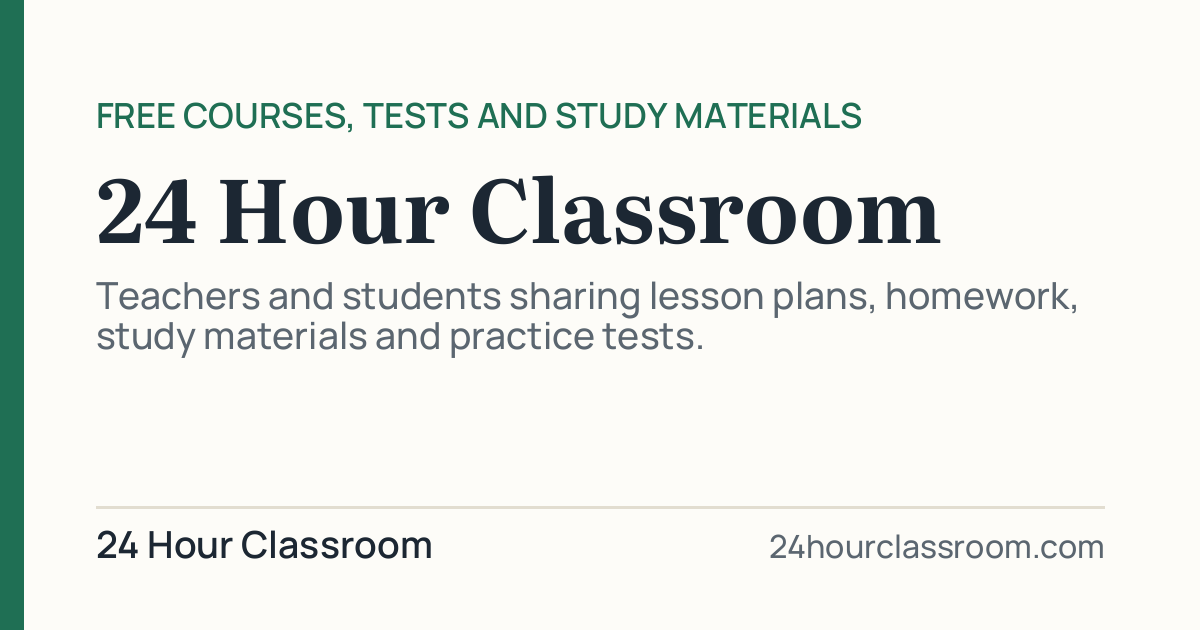
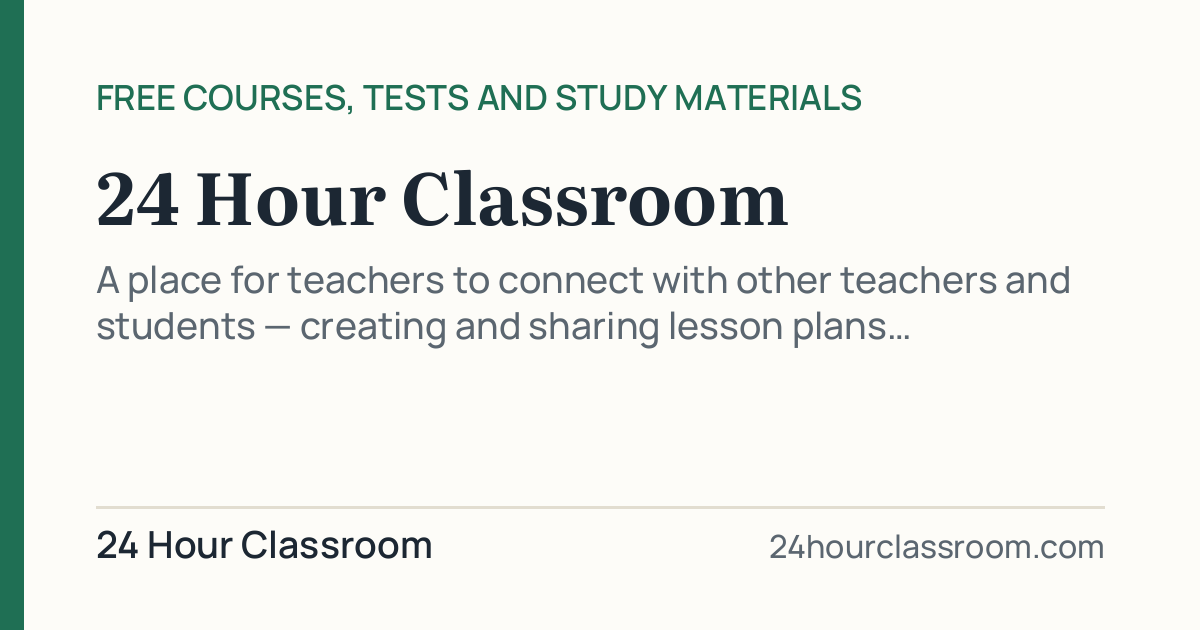
fix: share cards after review
- Text the Latin-only card fonts can't draw (CJK, Cyrillic, maths symbols)
  no longer leaves a blank card: such a title gets the site card and such
  a detail line is dropped (fonts/coverage.php, ShareCard::covers).
- Title line height accounts for GD sizes being points at 96 dpi, so lines
  no longer touch; sizes 54/48/42/38.
- One cache entry per page holding the PNG and its hash, redrawn in place,
  instead of a new database row for every version of a card.
- og:image carries v=<card hash>, so bots that cache by URL pick up an
  edit; max-age down to 10 minutes.
- Ellipsis cuts back to a word boundary.
- More fallback tests: hidden tests, materials, practice pages and
  deactivated teachers get the site card.

Claude-Session: https://claude.ai/code/session_017AxU8xPuDdR2SAk5JH72wA

Changed region(s): [[0.0617, 0.4222, 0.8942, 0.573], [0.0617, 0.2714, 0.8017, 0.3921], [0.0617, 0.1206, 0.74, 0.2111]]

diff --git a/apps/web/src/services/page-meta.ts b/apps/web/src/services/page-meta.ts
@@ -107,7 +107,11 @@ export function applyHead(): void {
   }
 }
 
-/** GET /api/page-image for $path, as PageHead::imageUrl builds it. */
+/**
+ * GET /api/page-image for this path, as PageHead::imageUrl builds it minus
+ * its `v` cache-buster (a hash only the server can compute; bots read the
+ * server's tag, which this replaces only after load).
+ */
 export function pageImageUrl(path: string): string {
   const api = (Env?.apiBaseUrl ?? 'http://localhost:8000').replace(/\/+$/, '');
   return `${api}/api/page-image?path=${encodeURIComponent(path)}`;

diff --git a/apps/api/app/Support/ShareCard.php b/apps/api/app/Support/ShareCard.php
@@ -20,6 +20,12 @@ final class ShareCard
 
     public const HEIGHT = 630;
 
+    /** Bump when the drawing changes, so cached cards and bots' copies are redrawn. */
+    public const VERSION = 2;
+
+    /** imagettftext sizes are points at 96 dpi: pixels per point. */
+    private const PX = 96 / 72;
+
     private const SURFACE = '#fdfcf8';
 
     private const INK = '#1c2733';
@@ -38,6 +44,32 @@ final class ShareCard
     public static function supported(): bool
     {
         return function_exists('imagettftext') && function_exists('imagepng');
+    }
+
+    /**
+     * Whether every character of $text has a glyph in all three fonts
+     * (resources/fonts/coverage.php). A missing glyph draws as nothing, so
+     * a caller puts no uncovered text on a card.
+     */
+    public static function covers(string $text): bool
+    {
+        static $ranges = null;
+        $ranges ??= require resource_path('fonts/coverage.php');
+        foreach (mb_str_split((string) preg_replace('/\s+/u', ' ', $text)) as $char) {
+            $cp = mb_ord($char);
+            $ok = false;
+            foreach ($ranges as [$from, $to]) {
+                if ($cp >= $from && $cp <= $to) {
+                    $ok = true;
+                    break;
+                }
+            }
+            if (! $ok) {
+                return false;
+            }
+        }
+
+        return true;
     }
 
     /**
@@ -70,12 +102,12 @@ final class ShareCard
         $maxWidth = self::WIDTH - self::LEFT - self::RIGHT;
 
         // Kicker.
-        $y = 128;
+        $y = 110;
         imagettftext($img, 26, 0, self::LEFT, $y, $accent, $sans, self::fit(mb_strtoupper($kicker), $sans, 26, $maxWidth));
 
         // Title: the largest size at which it fits in three lines.
         $title = trim((string) preg_replace('/\s+/u', ' ', $title));
-        foreach ([66, 58, 50, 44] as $size) {
+        foreach ([54, 48, 42, 38] as $size) {
             $lines = self::wrap($title, $serif, $size, $maxWidth);
             if (count($lines) <= 3) {
                 break;
@@ -85,8 +117,8 @@ final class ShareCard
         if (count(self::wrap($title, $serif, $size, $maxWidth)) > 3) {
             $lines[2] = self::fit($lines[2].'…', $serif, $size, $maxWidth, true);
         }
-        $lineHeight = (int) round($size * 1.22);
-        $y += 34;
+        $lineHeight = (int) round($size * self::PX * 1.18);
+        $y += 30;
         foreach ($lines as $text) {
             $y += $lineHeight;
             imagettftext($img, $size, 0, self::LEFT, $y, $ink, $serif, $text);
@@ -98,15 +130,15 @@ final class ShareCard
             if (count($detailLines) > 2) {
                 $detailLines = [$detailLines[0], self::fit($detailLines[1].'…', $sansMedium, 28, $maxWidth, true)];
             }
-            $y += 26;
+            $y += 22;
             $limit = self::HEIGHT - 72 - 52 - 24; // clear of the footer rule
             foreach ($detailLines as $i => $text) {
-                if ($y + 40 > $limit) {
+                if ($y + 46 > $limit) {
                     break;
                 }
-                $last = $i + 1 < count($detailLines) && $y + 80 > $limit;
+                $last = $i + 1 < count($detailLines) && $y + 92 > $limit;
                 $text = $last ? self::fit($text.'…', $sansMedium, 28, $maxWidth, true) : $text;
-                $y += 40;
+                $y += 46;
                 imagettftext($img, 28, 0, self::LEFT, $y, $muted, $sansMedium, $text);
             }
         }
@@ -175,6 +207,12 @@ final class ShareCard
         $base = $hasEllipsis ? mb_substr($text, 0, -1) : $text;
         while ($base !== '' && self::width(rtrim($base).'…', $font, $size) > $max) {
             $base = mb_substr($base, 0, -1);
+        }
+        // Back off to the last word boundary rather than cut a word, unless
+        // that would leave less than half the text.
+        $space = mb_strrpos($base, ' ');
+        if ($space !== false && $space > mb_strlen($base) / 2) {
+            $base = mb_substr($base, 0, $space);
         }
 
         return rtrim($base, " \t.,;:·").'…';

diff --git a/apps/api/app/Support/PageHead.php b/apps/api/app/Support/PageHead.php
@@ -109,7 +109,7 @@ final class PageHead
         $tags[] = $this->tag('meta', 'property', 'og:type', $meta['type']);
         $tags[] = $this->tag('meta', 'property', 'og:url', $url);
         $tags[] = $this->tag('meta', 'property', 'og:site_name', $this->siteName);
-        $tags[] = $this->tag('meta', 'property', 'og:image', self::imageUrl($meta['path']));
+        $tags[] = $this->tag('meta', 'property', 'og:image', self::imageUrl($meta['path'], $this->card($meta)));
         $tags[] = $this->tag('meta', 'property', 'og:image:width', (string) ShareCard::WIDTH);
         $tags[] = $this->tag('meta', 'property', 'og:image:height', (string) ShareCard::HEIGHT);
         $tags[] = $this->tag('meta', 'property', 'og:image:alt', $meta['title'] ?? $this->siteName);
@@ -164,25 +164,44 @@ final class PageHead
      * than its head already says, so a hidden page gets the site's own card.
      *
      * @param  array{title: ?string, card: array{kicker: string, detail: ?string}}  $meta
-     * @return array{kicker: string, title: string, detail: ?string, site: string, host: string}
+     * @return array{kicker: string, title: string, detail: ?string, site: string, host: string, is_site: bool}
      */
     public function card(array $meta): array
     {
-        $isSite = $meta['title'] === null;
+        // A title the fonts can't draw would leave a blank card (ShareCard::covers):
+        // the site's own card instead; an undrawable detail is left off.
+        $isSite = $meta['title'] === null || ! ShareCard::covers($meta['title']);
+        $detail = $isSite ? self::summarize($this->tagline, 140) : $meta['card']['detail'];
 
         return [
             'kicker' => $isSite ? 'Free courses, tests and study materials' : $meta['card']['kicker'],
-            'title' => $meta['title'] ?? $this->siteName,
-            'detail' => $isSite ? self::summarize($this->tagline, 140) : $meta['card']['detail'],
+            'title' => $isSite ? $this->siteName : $meta['title'],
+            'detail' => $detail !== null && ShareCard::covers($detail) ? $detail : null,
             'site' => $this->siteName,
             'host' => (string) parse_url($this->origin, PHP_URL_HOST),
+            'is_site' => $isSite,
         ];
     }
 
-    /** The og:image URL for a page: the API's own share-card route. */
-    public static function imageUrl(string $path): string
+    /**
+     * The og:image URL for a page: the API's own share-card route. `v`, a
+     * hash of what the card draws, changes the URL whenever the card does,
+     * because preview bots cache images by URL; the route ignores it. The
+     * site's card has one hash, so `v` says nothing about a hidden page.
+     *
+     * @param  array<string, mixed>|null  $card  PageHead::card() for the page
+     */
+    public static function imageUrl(string $path, ?array $card = null): string
     {
-        return rtrim((string) config('app.url'), '/').'/api/page-image?path='.rawurlencode($path);
+        $url = rtrim((string) config('app.url'), '/').'/api/page-image?path='.rawurlencode($path);
+
+        return $card === null ? $url : $url.'&v='.self::cardHash($card);
+    }
+
+    /** @param  array<string, mixed>  $card */
+    public static function cardHash(array $card): string
+    {
+        return substr(sha1(ShareCard::VERSION.json_encode($card, JSON_THROW_ON_ERROR)), 0, 12);
     }
 
     /** A page a guest cannot open: the site's own head, kept out of the index. */

diff --git a/apps/api/tests/Feature/Api/PageHeadTest.php b/apps/api/tests/Feature/Api/PageHeadTest.php
@@ -39,7 +39,7 @@ test('every head carries the page\'s share card as a large-image preview', funct
     $course = aCourse($author, $tests->all(), ['visibility' => 'public', 'published_at' => now(), 'title' => 'Engines']);
 
     expect(pageHead($this, "/courses/{$course->id}"))
-        ->toContain("<meta property=\"og:image\" content=\"https://api.classroom.test/api/page-image?path=%2Fcourses%2F{$course->id}\" data-page-meta>")
+        ->toMatch("#<meta property=\"og:image\" content=\"https://api\\.classroom\\.test/api/page-image\\?path=%2Fcourses%2F{$course->id}&amp;v=[0-9a-f]{12}\" data-page-meta>#")
         ->toContain('<meta property="og:image:width" content="1200" data-page-meta>')
         ->toContain('<meta property="og:image:height" content="630" data-page-meta>')
         ->toContain('<meta property="og:image:alt" content="Engines" data-page-meta>')
@@ -54,6 +54,34 @@ test('every head carries the page\'s share card as a large-image preview', funct
     ]);
     expect($head->card($head->resolve('/library/courses')))->toMatchArray(['kicker' => 'Browse', 'title' => 'Free courses']);
     expect($head->card($head->resolve('/')))->toMatchArray(['title' => SiteSetting::current()->name, 'kicker' => 'Free courses, tests and study materials']);
+});
+
+test('the image URL changes when the card does, and hidden pages share the site card\'s', function () {
+    $author = aTeacher();
+    $course = aCourse($author, [], ['visibility' => 'public', 'published_at' => now(), 'title' => 'Engines']);
+    $private = aCourse($author, [], ['title' => 'Secret plans']);
+    $image = fn (string $path) => preg_match('#og:image" content="([^"]+)"#', pageHead($this, $path), $m) ? html_entity_decode($m[1]) : null;
+
+    $before = $image("/courses/{$course->id}");
+    $course->update(['title' => 'Steam engines']);
+    expect($image("/courses/{$course->id}"))->not->toBe($before);
+
+    $site = $image('/');
+    $v = fn (?string $url) => parse_url((string) $url, PHP_URL_QUERY) ? Illuminate\Support\Str::after($url, '&v=') : null;
+    expect($v($image("/courses/{$private->id}")))->toBe($v($site));
+    expect($v($image('/courses/999999')))->toBe($v($site));
+});
+
+test('text the card fonts cannot draw never reaches a card', function () {
+    $author = aTeacher(['name' => 'Пётр Чайковский']);
+    $cjk = aCourse($author, [], ['visibility' => 'public', 'published_at' => now(), 'title' => '微积分入门']);
+    $latin = aCourse($author, [], ['visibility' => 'public', 'published_at' => now(), 'title' => 'Calculus']);
+    $head = new App\Support\PageHead;
+
+    expect($head->card($head->resolve("/courses/{$cjk->id}")))->toMatchArray(['is_site' => true, 'title' => SiteSetting::current()->name]);
+    expect($head->card($head->resolve("/courses/{$latin->id}")))->toMatchArray(['is_site' => false, 'title' => 'Calculus', 'detail' => null]);
+    expect(App\Support\ShareCard::covers('Café – “naïve” résumé…'))->toBeTrue();
+    expect(App\Support\ShareCard::covers('π'))->toBeFalse();
 });
 
 test('a private course, a missing one and a deactivated author\'s look the same: site head, noindex', function () {

diff --git a/apps/api/app/Http/Controllers/Api/PageImageController.php b/apps/api/app/Http/Controllers/Api/PageImageController.php
@@ -16,15 +16,13 @@ use Symfony\Component\HttpFoundation\Response;
  * a page a guest cannot open, or a path PageHead does not describe, gets the
  * site's own card, so an image never names a private course.
  *
- * Cards are cached by what they draw (title, detail, site name), so an edit
- * to a course draws a new card on the next fetch. Without GD's FreeType the
- * route redirects to the static card the SPA host serves.
+ * One cache entry per page (the site's card is one entry for every hidden
+ * or unknown path), holding the hash of what it draws, so an edit redraws
+ * the card in place rather than leaving the old one behind. Without GD's
+ * FreeType the route redirects to the static card the SPA host serves.
  */
 class PageImageController extends Controller
 {
-    /** Bump when ShareCard's drawing changes, so cached cards are redrawn. */
-    private const VERSION = 1;
-
     public function __invoke(Request $request): Response
     {
         $path = $request->query('path');
@@ -38,14 +36,19 @@ class PageImageController extends Controller
         $meta = $pageHead->resolve($path) ?? $pageHead->resolve('/');
         $card = $pageHead->card($meta);
 
-        $key = 'page-image:'.self::VERSION.':'.sha1(json_encode($card, JSON_THROW_ON_ERROR));
-        $png = Cache::remember($key, now()->addWeek(), fn () => base64_encode(
-            ShareCard::png($card['kicker'], $card['title'], $card['detail'], $card['site'], $card['host'])
-        ));
+        $hash = PageHead::cardHash($card);
+        $key = 'page-image:'.sha1($card['is_site'] ? '' : $meta['path']);
+        $cached = Cache::get($key);
+        if (is_array($cached) && ($cached['hash'] ?? null) === $hash && is_string($cached['png'] ?? null)) {
+            $png = $cached['png'];
+        } else {
+            $png = base64_encode(ShareCard::png($card['kicker'], $card['title'], $card['detail'], $card['site'], $card['host']));
+            Cache::put($key, ['hash' => $hash, 'png' => $png], now()->addWeek());
+        }
 
         return response(base64_decode($png), 200, [
             'Content-Type' => 'image/png',
-            'Cache-Control' => 'public, max-age=3600',
+            'Cache-Control' => 'public, max-age=600',
         ]);
     }
 }

diff --git a/apps/api/tests/Feature/Api/PageImageTest.php b/apps/api/tests/Feature/Api/PageImageTest.php
@@ -1,5 +1,6 @@
 <?php
 
+use App\Models\Material;
 use App\Models\Test;
 use App\Support\ShareCard;
 
@@ -40,6 +41,19 @@ test('a private course, a missing one and an undescribed path all get the site c
     }
 });
 
+test('hidden tests, materials and practice pages get the site card too', function () {
+    $author = aTeacher();
+    $test = Test::factory()->for($author, 'author')->create(['title' => 'Private quiz']);
+    $material = Material::factory()->for($author, 'author')->create(['title' => 'Private notes']);
+    $course = aCourse($author, [$test], ['visibility' => 'public', 'published_at' => now()]);
+    $gone = aTeacher(['deactivated_at' => now()]);
+    $site = pageImage($this, '/');
+
+    foreach (["/tests/{$test->id}", "/materials/{$material->id}", "/courses/{$course->id}/tests/{$test->id}", "/teachers/{$gone->id}"] as $path) {
+        expect(pageImage($this, $path))->toBe($site, $path);
+    }
+});
+
 test('a card is cached by what it draws, so an edit draws a new one', function () {
     $author = aTeacher();
     $course = aCourse($author, [], ['visibility' => 'public', 'published_at' => now(), 'title' => 'Engines']);
@@ -49,6 +63,11 @@ test('a card is cached by what it draws, so an edit draws a new one', function (
 
     $course->update(['title' => 'Steam engines']);
     expect(pageImage($this, "/courses/{$course->id}"))->not->toBe($first);
+
+    // Redrawn in place: one entry per page, not one per version of it.
+    $entry = Illuminate\Support\Facades\Cache::get('page-image:'.sha1("/courses/{$course->id}"));
+    $head = new App\Support\PageHead;
+    expect($entry['hash'])->toBe(App\Support\PageHead::cardHash($head->card($head->resolve("/courses/{$course->id}"))));
 });
 
 test('long titles and details are drawn without error', function () {

diff --git a/apps/api/resources/fonts/coverage.php b/apps/api/resources/fonts/coverage.php
@@ -1,0 +1,30 @@
+<?php
+
+// Code points all three share-card fonts draw (generated with fontTools from
+// the .ttf files beside this one; regenerate when they change). ShareCard
+// draws a missing glyph as nothing, so text outside these ranges is never
+// put on a card.
+return [
+    [0x0020, 0x007E],
+    [0x00A0, 0x00FF],
+    [0x0131, 0x0131],
+    [0x0152, 0x0153],
+    [0x02C6, 0x02C6],
+    [0x02DA, 0x02DA],
+    [0x02DC, 0x02DC],
+    [0x2013, 0x2014],
+    [0x2018, 0x201A],
+    [0x201C, 0x201E],
+    [0x2020, 0x2022],
+    [0x2026, 0x2026],
+    [0x2030, 0x2030],
+    [0x2039, 0x203A],
+    [0x2044, 0x2044],
+    [0x2074, 0x2074],
+    [0x20AC, 0x20AC],
+    [0x2122, 0x2122],
+    [0x2191, 0x2191],
+    [0x2193, 0x2193],
+    [0x2212, 0x2212],
+    [0x2215, 0x2215],
+];

diff --git a/CLAUDE.md b/CLAUDE.md
@@ -85,11 +85,14 @@ Each head's `og:image` is a **share card**: `GET /api/page-image?path=`
 GD/FreeType (`App\Support\ShareCard`) from `PageHead::card()`: kicker, title,
 one detail line, site name. A page a guest can't open, or any path PageHead
 doesn't describe, gets the site's own card, so an image never says more than
-the head. Cards are cached a week by what they draw (bump
-`PageImageController::VERSION` when the drawing changes). The fonts in
-`resources/fonts` are static instances of the SPA's variable Literata and
-Manrope (OFL), because FreeType draws a variable font only at its default
-weight. Without GD the route redirects to `apps/web/src/assets/share-card.png`,
+the head. The image URL carries `v=` (`PageHead::cardHash`), so it changes
+whenever the card does (bots cache images by URL); the client mirror omits it.
+One cache entry per page holds the PNG and that hash, redrawn in place (bump
+`ShareCard::VERSION` when the drawing changes). The fonts in
+`resources/fonts` are Latin-only static instances of the SPA's variable
+Literata and Manrope (OFL), because FreeType draws a variable font only at its
+default weight; GD draws a missing glyph as nothing, so a title outside
+`fonts/coverage.php` gets the site card and such a detail line is dropped. Without GD the route redirects to `apps/web/src/assets/share-card.png`,
 the same site card, which `index.html`'s static link-preview defaults also name
 (`index.php` drops those defaults when it splices and otherwise makes the image
 absolute on the request's own origin). The OG image URL is built on `APP_URL`
